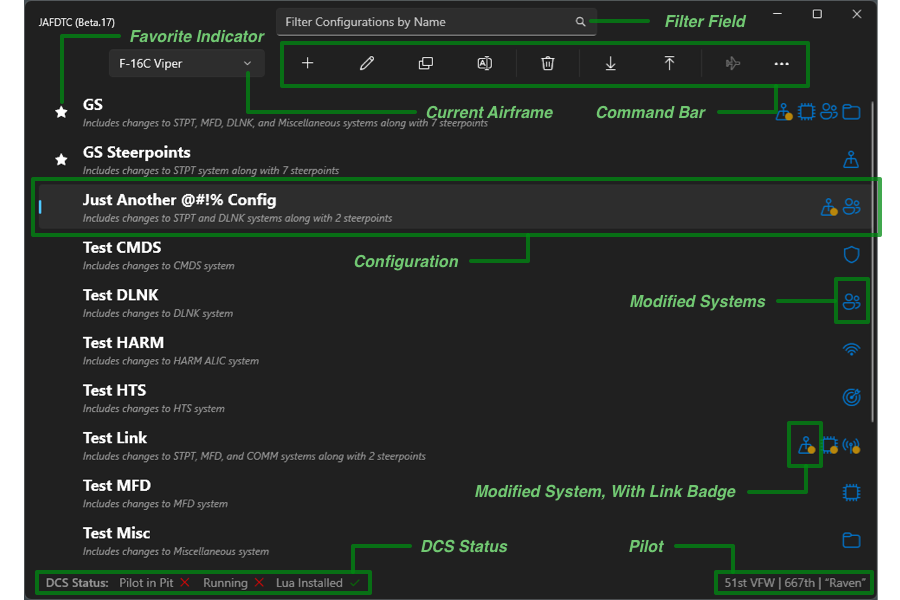
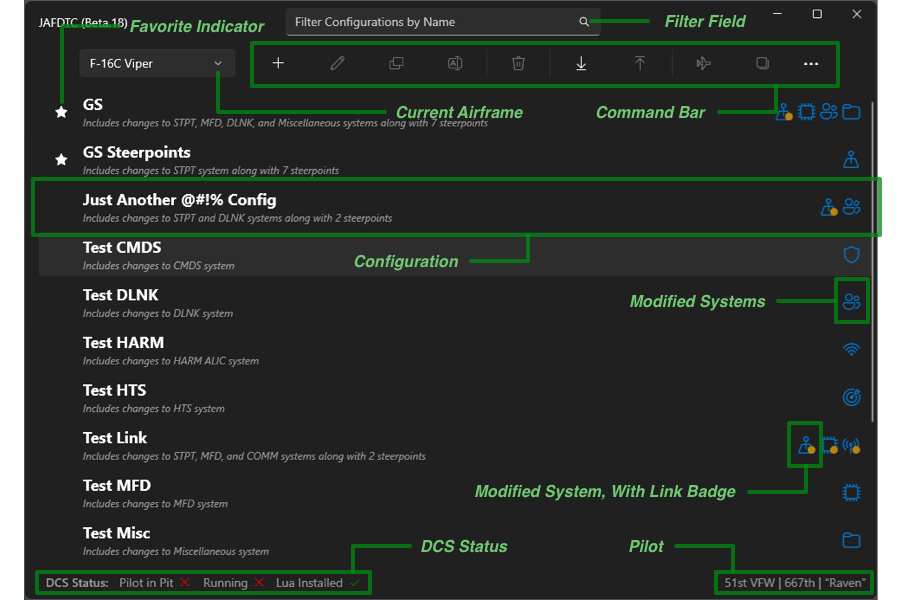
Documentation Updates
Updates to user's guide.

diff --git a/doc/README.md b/doc/README.md
@@ -1,6 +1,6 @@
 # JAFDTC: User's Guide
 
-*Version 1.0.0-B.18 of 12-Jan-24*
+*Version 1.0.0-B.19 of 21-Jan-24*
 
 _Just Another #%*@^!% DTC_ (JAFDTC) is a Windows application that allows you to upload data
 typically saved on a data cartridge, such as steerpoints/waypoints and other avionics setup,
@@ -53,7 +53,7 @@ airframes.
 JAFDTC allows you to link *System Configurations* between different *Configurations* for the
 same airframe. When linked, changes to the source system configuration are automatically
 reflected in all linked systems. This allows you to "compose" configurations from shared
-components.
+setups.
 
 Links are particularly useful when you have basic setups that you tend to reuse often. For
 example, you might want to always configure your MFDs one way for A2G and another way for
@@ -130,28 +130,33 @@ a number of controls to manipulate configurations,
 
 Working from top to bottom, the primary components of this page include,
 
-- **Filter Search Box** &ndash; Filters the configurations shown in the configuration list.
-- **Current Airframe** &ndash; Selects the current airframe to display configurations for.
-- **Command Bar** &ndash; Triggers commands to manipulate configurations.
-- **Configuration List** &ndash; Lists the available configurations for the current airframe.
-- **Status Area** &ndash; Shows information on the current DCS status and pilot.
+- [**Filter Field**](#filter-field)
+  &ndash; Filters the configurations shown in the configuration list.
+- [**Current Airframe**](#current-airframe-selection)
+  &ndash; Selects the current airframe to display configurations for.
+- [**Command Bar**](#command-bar)
+  &ndash; Triggers commands to manipulate configurations.
+- [**Configuration List**](#configuration-list)
+  &ndash; Lists the available configurations for the current airframe.
+- [**Status Area**](#status-area)
+  &ndash; Shows information on the current DCS status and pilot.
 
 The reaminder of this section discusses each of these elements in more detail.
 
-### Filter Search Box
+### Filter Field
 
-The filter box controls which configurations the
+The filter field controls which configurations the
 [configuration list](#configuration-list)
-in the center of the page displays. To be displayed in the list, a configuration must match the
-filter by containing the specified text. For example, typing `test` will match configurations
-that contain "test" anywhere in their name (comparisons are always case-insensitive).
+in the center of the page displays. To be displayed in the configuration list, a configuration
+must match the filter by containing the specified text. For example, typing `test` will match
+configurations\ that contain "test" anywhere in their name (comparisons are case-insensitive).
 
 ![](images/Core_Cfg_List_Filter.png)
 
 As you type, the application will show a list of matching configurations. Typing `Return` or
-clicking on the *Accept Filter Icon* will select the filter. You can pick a specific
+clicking on the **Accept Filter** icon will select the filter. You can pick a specific
 configuration by clicking on its name in the matching configuration list. Clicking on the `X`
-icon will remove any filtering and display all configurations.
+**Clear Filter** icon will remove any filtering and display all configurations.
 
 ### Current Airframe Selection
 
@@ -164,6 +169,52 @@ selected airframe.
 
 JAFDTC remembers the last airframe you selected and will return to that airframe the next time
 it is launched.
+
+### Command Bar
+
+The command bar at the top of the page provides quick access to the operations you can perform
+on configurations. Clicking on the `...` button at the right of the bar displays the command bar
+in its "open" state.
+
+![](images/Core_Command_Bar.png)
+
+The command bar includes the following commands,
+
+- **Add** &ndash; Adds a new configuration to the database after prompting for a name for the new
+  configuration.
+- **Edit** &ndash; Navigates to the
+  [System Editor Page](#system-editor-page)
+  for the selected configuration to allow you to edit the configuration. You can also edit a
+  configuration by double-clicking on the configuration in the configuration list.
+- **Duplicate** &ndash; Creates a copy of the selected configuration after prompting for a name for the
+  copy of the configuration.
+- **Rename** &ndash; Renames the selected configuration.
+- **Delete** &ndash; Removes the currently selected configuration from the database.
+- **Import** &ndash; Creates a new configuration from a file previously created with the *Export*
+  command.
+- **Export** &ndash; Creates a file that contains the selected configuration suitable for import using
+  the *Import* command.
+- **Load to Jet** &ndash; Uploads the selected configuration to DCS, see
+  [here](#interacting-with-dcs)
+  for further details.
+- **Focus DCS** &ndash; Brings DCS to the foreground and makes it the active application.
+
+> Importing a configuration will implicitly clear all links to other configurations that may
+> have been in place at the time of export.
+
+The overflow menu (exposed by clicking on the "..." button) holds two commands,
+
+- **Points of Interest** &ndash; Navigates to the
+  [POI Editor](#point-of-interest-database)
+  page to allow you to edit points of interest.
+- **Settings** &ndash; Opens up the
+  [JAFDTC Settings](#settings)
+  dialog to allow you to change JAFDTC settings.
+- **About** &ndash; Opens a dialog box that identifies the JAFDTC version and similar information.
+
+Depending on the state of the system, commands may be disabled. For example, **Edit** is disabled
+when there is no configuration selected and **Load to Jet** is disabled if DCS is not running
+a mission with the appropriate airframe.
 
 ### Configuration List
 
@@ -182,51 +233,6 @@ for the configuration that allows you to edit information in the configuration. 
 on a row will bring up a context menu with operations, such as **Rename** or **Delete**, that
 you can perform on the clicked configuration. 
 
-### Command Bar
-
-The command bar at the top of the page provides quick access to the operations you can perform
-on Configurations. The following screen shot shows the command bar in its "open" state (accessed
-by clicking on the "..." button at right).
-
-![](images/Core_Command_Bar.png)
-
-The command bar includes the following commands,
-
-- **Add** &ndash; Adds a new configuration to the database after prompting for a name for the new
-  configuration.
-- **Edit** &ndash; Opens the
-  [System Editor Page](#system-editor-page)
-  for the selected configuration to allow you to edit the configuration. You can also edit a
-  configuration by double-clicking on the configuration in the configuration list.
-- **Duplicate** &ndash; Creates a copy of the selected configuration after prompting for a name for the
-  copy of the configuration.
-- **Rename** &ndash; Renames the selected configuration.
-- **Delete** &ndash; Removes the currently selected configuration from the database.
-- **Import** &ndash; Creates a new configuration from a file previously created with the *Export*
-  command.
-- **Export** &ndash; Creates a file that contains the selected configuration suitable for import using
-  the *Import* command.
-- **Load to Jet** &ndash; Uploads the selected configuration to DCS, see
-  [here](#interacting-with-dcs)
-  for further details.
-
-> Importing a configuration will implicitly clear all links to other configurations that may
-> have been in place at the time of export.
-
-The overflow menu (exposed by clicking on the "..." button) holds two commands,
-
-- **POI** &ndash; Navigates to the
-  [POI Editor](#point-of-interest-database)
-  page to allow you to edit points of interest.
-- **Settings** &ndash; Opens up the
-  [JAFDTC Settings](#settings)
-  dialog to allow you to change JAFDTC settings.
-- **About** &ndash; Opens a dialog box that identifies the JAFDTC version and similar information.
-
-Depending on the state of the system, commands may be disabled. For example, **Edit** is disabled
-when there is no configuration selected and **Load to Jet** is disabled if DCS is not running
-a mission with the appropriate airframe.
-
 ### Status Area
 
 The status area occupies the bottom part of the configuration list page. On the right side of
@@ -234,9 +240,10 @@ this region is information showing the current status of DCS. There are three pi
 status here, each marked with a red cross or green checkmark,
 
 - **Lua Installed** &ndash; Indicates that the Lua support is properly installed in DCS.
-- **Running** &ndash; Indicates that DCS is currently running (though not necessarily running a mission).
-- **Pilot in Pit** &ndash; Indicates that DCS is currently running a mission along with the type of
-  airframe currently in use.
+- **Running** &ndash; Indicates that DCS is currently running (though not necessarily running
+  a mission).
+- **Pilot in Pit** &ndash; Indicates that DCS is currently running a mission along with the
+  type of airframe currently in use.
 
 For example,
 
@@ -251,10 +258,9 @@ The left side of the status area identifies the pilot and wing as specified thro
 
 ## System Editor Page
 
-The specific systems availble in a configuration vary from airframe to airframe. However, the
-basic structure of the page on which you edit system configurations is similar. The *System
-Editor Page* provides a list of systems from which you can display per-system editors as the
-following figure illustrates.
+The *System Editor Page* provides a list of systems from which you can display per-system
+editors. The specific systems availble in a configuration vary from airframe to airframe.
+However, the basic structure of the page on which you edit system configurations is similar.
 
 ![](images/Core_Cfg_Edit_Page.png)
 
@@ -270,8 +276,8 @@ associated icon. The tint of the icon indicates the state of the system: blue ic
 systems whose configuration has changed from defaults, white icons mark systems that have not
 been changed.
 
-> JAFDTC uses the system highlight color; if you change it, the blue icons may be a different
-> color based on your choice.
+> JAFDTC uses the system highlight color; if you change it, the blue icons in the screenshots
+> may be a different color based on your choice.
 
 A small gold dot marks those systems that are linked to other configurations.
 
@@ -338,7 +344,7 @@ badged with a small gold dot as described earlier.
 
 ## System Editors for Navigation Systems
 
-Most aircraft in JAFDTC support a navigation system that allows _Navigation Points_ (i.e.,
+Most aircraft in JAFDTC support a navigation system that allows *Navigation Points* (i.e.,
 waypoints or steerpoints) to be input into the avionics as a part of a configuration. While
 the interface for managing navigation points depends on the airframe, the general operation
 and layout of the interface is similar.
@@ -404,10 +410,9 @@ The top section of the page allows you to set up the navigation point from a kno
 [discussed below](#capturing-coordinates). You can select a point of interest from the drop-
 down menu; pressing the **Paste** button to the right of the drop-down copies its parameters
 (such as latitude or longitude) into the navigation point. Points of interest are grouped by
-theater (for example, Syria, Nevada) and point within the theater (for example, Ramat David,
-Nellis AFB).
+theater (for example, Syria, Nevada).
 
-The row below that identifies the navigation point being edited and, on the right, provides
+The next row identifies the navigation point being edited and, on the right, provides
 four controls.
 
 - The pin button creates a user point of interest from the current navigation parameters.
@@ -453,11 +458,18 @@ captured coordinates in the navigation system.
 
 ### Importing and Exporting Navigation Points
 
-TODO
+In addition to its own `.json` format, JAFDTC can import navigation points from `.miz` and
+`.cf` files directly. When importing navigation points, they can either replace or be
+appended to the list of currently defined navigation points.
 
 ![](images/Core_Base_Import.png)
 
-TODO
+When importing from `.miz` or `.cf` files, you can select the flight within the file you wish
+to import from. The list will only show flights that match the airframe the configuration uses.
+
+Both dialogs allow you to enable or disable the import of *Time on Steerpoint* information from
+the imported file. In addition, for `.cf` files, you can choose to import the take-off
+steerpoints.
 
 ## System Editors for Communications Systems
 
@@ -591,8 +603,8 @@ To be able to upload a configuration for a particular airframe, four conditions 
 2. The DCS scripting support must be
    [installed](#support-scripts)
 3. DCS must be running
-4. A mission must be running with a pilot must be in pit in an airframe that matches the
-   airframe of the configuration selected in (1)
+4. A mission must be running with a pilot in pit in an airframe that matches the airframe of
+   the configuration selected in (1)
 
 The lower left corner of the main configuration list page indicates the status conditions 2-4
 as
@@ -697,8 +709,8 @@ depending which versions of DCS are installed on your system. Within these areas
 three changes,
 
 - Adds scripts in the `Scripts\JAFDTC` folder to enable integration with supported airframes
-- Adds `JAFDTCHook.lua` and `JAFDTCCfgNameHook.lua` script to the `Scripts\Hooks` folder to
-  enables integration with DCS
+- Adds `JAFDTCStatusMsgHook.lua` and `JAFDTCWyptCaptureHook.lua` script to the `Scripts\Hooks`
+  folder to enables integration with DCS
 - Adds a line to `Scripts\Export.lua` to load JAFDTC support into DCS at mission start
 
 JAFDTC will automatically update these files as needed, notifying you when an update is made.

diff --git a/doc/Airframe_F15E.md b/doc/Airframe_F15E.md
@@ -1,6 +1,6 @@
 # JAFDTC: F-15E Strike Eagle Configurations
 
-*Version 1.0.0-B.18 of 12-Jan-24*
+*Version 1.0.0-B.19 of 21-Jan-24*
 
 
 JAFDTC supports the following configuration in the Strike Eagle,

diff --git a/doc/Airframe_A10C.md b/doc/Airframe_A10C.md
@@ -1,6 +1,6 @@
 # JAFDTC: A-10C Warthog Configurations
 
-*Version 1.0.0-B.18 of 12-Jan-24*
+*Version 1.0.0-B.19 of 21-Jan-24*
 
 JAFDTC supports the following configuration in the Warthog,
 

diff --git a/doc/Airframe_AV8B.md b/doc/Airframe_AV8B.md
@@ -1,6 +1,6 @@
 # JAFDTC: AV-8B Harrier Configurations
 
-*Version 1.0.0-B.18 of 12-Jan-24*
+*Version 1.0.0-B.19 of 21-Jan-24*
 
 JAFDTC supports the following configuration in the Harrier,
 

diff --git a/doc/Airframe_F14AB.md b/doc/Airframe_F14AB.md
@@ -1,6 +1,6 @@
 # JAFDTC: F-14A/B Tomcat Configurations
 
-*Version 1.0.0-B.18 of 12-Jan-24*
+*Version 1.0.0-B.19 of 21-Jan-24*
 
 JAFDTC supports the following configuration in the Tomcat,
 

diff --git a/doc/Airframe_FA18C.md b/doc/Airframe_FA18C.md
@@ -1,6 +1,6 @@
 # JAFDTC: F/A-18C Hornet Configurations
 
-*Version 1.0.0-B.18 of 12-Jan-24*
+*Version 1.0.0-B.19 of 21-Jan-24*
 
 JAFDTC supports the following configuration in the Hornet,
 

diff --git a/doc/Airframe_M2000C.md b/doc/Airframe_M2000C.md
@@ -1,6 +1,6 @@
 # JAFDTC: Mirage M-2000C Configurations
 
-*Version 1.0.0-B.18 of 12-Jan-24*
+*Version 1.0.0-B.19 of 21-Jan-24*
 
 JAFDTC supports the following configuration in the Mirage,
 

diff --git a/doc/Airframe_F16C.md b/doc/Airframe_F16C.md
@@ -1,6 +1,6 @@
 # JAFDTC: F-16C Viper Configurations
 
-*Version 1.0.0-B.18 of 12-Jan-24*
+*Version 1.0.0-B.19 of 21-Jan-24*
 
 JAFDTC supports the following configuration in the Viper,
 
